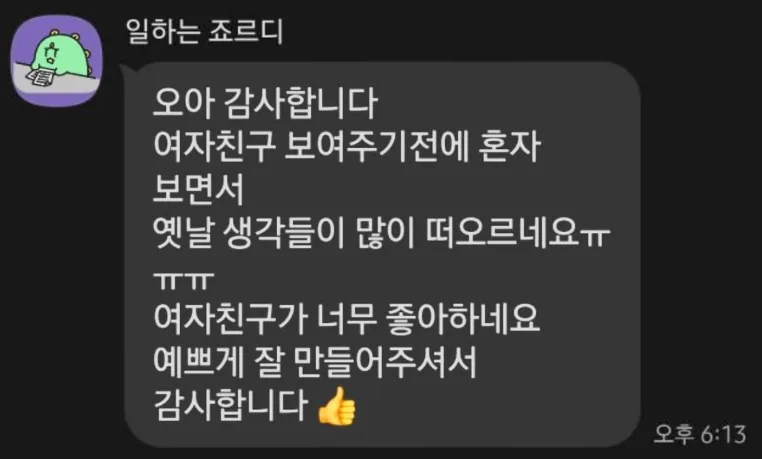
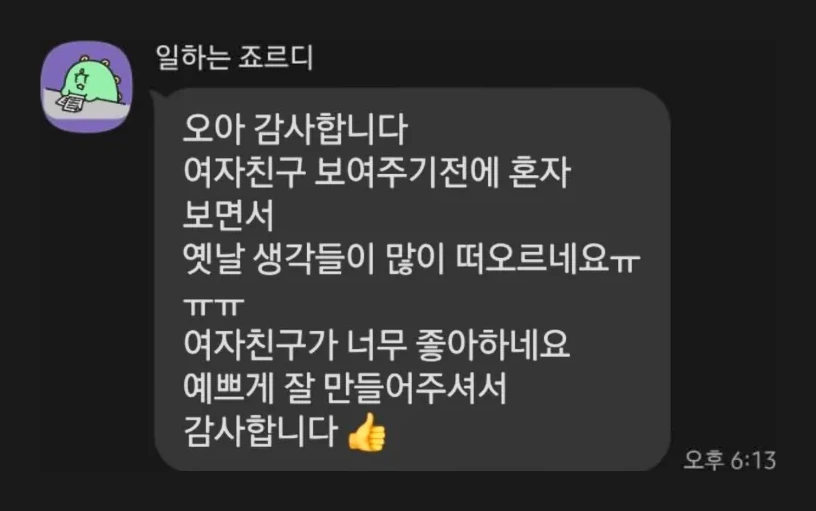
Round 26: review-17 original restored from 지훈's source, 4 reviews removed (10, 11, 15, 16), remaining 14 re-cropped uniformly, ?v=20261024-r26

Changed region(s): [[0.0, 0.0305, 0.9961, 0.976]]

diff --git a/js/review-sources.js b/js/review-sources.js
@@ -7,7 +7,7 @@
   const captures = [
     {
       id: 'review-17', title: '떨리는 느낌 사라져서 좋아요',
-      src: 'assets/img/reviews/review-17.webp?v=20261024-r24b',
+      src: 'assets/img/reviews/review-17.webp?v=20261024-r26',
       body: '앗 오늘 드디어 같이 들어봤습니다..!\n그 떨리는 느낌 사라져서 좋아요!!\n피드백 자세하게 드리지도 못했는데\n너무 찰떡같이 바꿔주셔서 감사합니다!\n진짜 마음에 들어요!!\n리허설날짜가 설레네요ㅎㅎㅎ\n진짜 가수를 만들어주셨네요\n제가 옆에서 들었던거랑^^..\nㅋㅋㅋㅋㅋㅋㅋ\n감사합니다!! 덕분에 안심하고 결혼할수있을거같습니다. 감사합니다!!! 🥹👍'
     },
     {
@@ -33,7 +33,7 @@
     {
       id: 'review-06', title: '처음부터 끝까지 잘 알려주셔서 편하게 할 수 있었습니다',
       body: '녹음을 처음 해봤는데 처음부터 끝까지 잘 알려주셔서 편하게 할 수 있었습니다\n시간도 여유 있게 진행해 주셔서 감사합니다',
-      src: 'assets/img/reviews/review-06-clean.webp'
+      src: 'assets/img/reviews/review-06-clean.webp?v=20261024-r26'
     },
     {
       id: 'review-07', title: '너무너무 즐거웠어요..🥹',
@@ -48,15 +48,6 @@
       body: '오늘 둘 다 녹음이 처음이라 긴장 많이 했는데 편하게 할 수 있도록 분위기도 잘 풀어주시고 덕분에 너무 즐겁게 녹음했어요! 😊\n\n예랑이도 끝나고 너무 재밌었다고 하더라구요!!\n오늘 너무 고생 많으셨어요 👍👍'
     },
     {
-      id: 'review-10', title: '편집을 너무 기깔나게 해주셔서 진짜 너무 예쁩니다.... 대박이에요',
-      body: '헉 이렇게 최종본으로 보니 눈물이 나기도 하고 오그라들기도 하네요 ㅋㅋㅋㅋ\n\n인터뷰 부분에서 말을 잘 못 했다고 생각했는데 ㅠㅠ\n편집을 너무 기깔나게 해주셔서 진짜 너무 예쁩니다.... 대박이에요 🫶\n\n결과물이 너무너무 맘에 들어서요\n별 건 아니지만 얼마전 복날이었는데 치킨이라도.. ❤\n채널에는 카카오톡 선물하기가 안되어서 따로 이미지로 보내드립니닷!\n정말정말 감사해요\n\n9월 6일 본식 마치면 본식 DVD 후기도 보내드리겠습니다 🫡',
-      transcriptionNote: 'The third customer bubble is partly covered by a studio caption and is omitted from this transcription; all other visible customer bubbles are included. Gift-card text and studio overlay are not customer reviews.'
-    },
-    {
-      id: 'review-11', title: '좋은 추억 만들어주셔서 너무 감사드리고',
-      body: '안녕하세요~~ 영상 잘 확인했습니다!! 저희 사진이랑 같이 나오니 진짜 뮤직비디오 찍은 것처럼 마음이 몽글해지네요ㅠㅠ 부족한 노래실력을 자연스럽게 커버해주셨네요 ㅎㅎㅎㅎ 인터뷰 부분 교차편집도 넘 맘에 들어요~~ 좋은 추억 만들어주셔서 너무 감사드리고 나레이션 녹음분도 잘 사용해서 결혼식날 영상 남겨서 꼭 전달드리겠습니다!!! 오랜시간 녹음과 촬영, 편집까지 너무 고생 많으셨습니다. 다시한번 진심을 담아 너무 감사드립니다~!!\n\n작지만 감사한 마음으로 보내드려요~ 정성 가득 영상 잘 만들어주신게 느껴져서 자꾸 보게되네요 ㅎㅎㅎ 연락 드리겠습니다!! 감사합니다~'
-    },
-    {
       id: 'review-12', name: '송○○', title: '너무 예쁜 영상 감사합니다!!',
       body: '안녕하세요!! 이제야 확인했습니다ㅎㅎ\n너무 예쁜 영상 감사합니다!! 😊 뭔가 사진이랑 같이 편집된거 보니 더 몽글몽글해지고 그러네요,,,ㅎㅎㅎ 고생 너무 많으셨구 행복한 하루 보내세요!!!'
     },
@@ -69,23 +60,15 @@
       body: '제가 본식 DVD 받으면 블로그로도 후기를 남기려고 했는데 나오는데 너무 오래걸려서 카톡으로 먼저 본식 후기를 전달드려요🫶\n\n본식 때 현장 반응이 정말 완전 최고였습니다!!!\n\n신부 입장을 노래 부르면서 들어가니까 다들 놀라서 감탄했고요\n\nAR 너무 잘 만들어주셔서 신부 입장할때 신부가 립싱크로 노래 부르는거 다들 모르더라구요ㅋㅋㅋ\n\n모두들 저보고 노래 왜이렇게 잘하냐고 칭찬 일색이었습니다!\n\n그리고 축가 영상도 단순히 축가만 부를때는 집중력이 떨어지는데 신랑신부가 마이크로 노래를 부르면서 뒤에 스크린에 영상이 나오니까 하객들이 엄청 집중 하시더라구요\n\n결혼식이 한편의 콘서트 같았다고, 기획을 너무너무 잘 했다고 엄청 칭찬 받았습니다 ㅎㅎㅎ\n\n덕분에 진짜 재밌고 특색있는 결혼식이 되었어요💗\n\n아무도 이런 결혼식은 본 적이 없다면서 하객들이 너무 재밌다고 자리 이탈 안하시고 끝까지 자리 지켜주셨어요 ㅋㅋㅋ\n\n그럴 일은 없겠지만, 제가 두 번 결혼해도 다시 위스티아 이용할 것 같아요!\n\n정말 최고의 찬사를 받은 결혼식이었습니다❤\n다시 한번 감사드립니다'
     },
     {
-      id: 'review-15', title: '녹음할때도 잘 이끌어주셔서 긴장감을 떨치고',
-      body: '잘 확인했습니다!!! 수정 사항 빠르게 반영해주셔서 감사합니다ㅎㅎ 넘 좋아요!!!!!\n본식까지 얼마 남지 않아서 걱정했었는데 녹음 파일부터 최종 영상까지 너무나 빠르게 완성해주셔서 감사드립니다🫶🏻\n녹음할때도 잘 이끌어주셔서 긴장감을 떨치고 편하게 진행했었는데 영상도 잘 완성되서 넘 좋습니당☺\n알려주신대로 당일에 잘 부를 수 있게 연습해보겠습니다!!'
-    },
-    {
-      id: 'review-16', title: '저희 노래 정말 잘하는것처럼 만들어주셨네요 !!!',
-      body: '안녕하세요 엔지니어님!\n저희 영상 보고 너무 감동했어요😭\n저희 노래 정말 잘하는것처럼 만들어주셨네요 !!!\n결혼식날 다들 정말 좋아하실 것 같아요 ㅠㅠㅠ\n예쁜 영상 만들어주셔서 감사합니다!!\n\n열심히 만들어주신 영상으로 결혼식 잘 하고 오겠습니다 ㅎㅎ\n결혼식 후기 꼭 가져올게요!!\n\n점심 맛있게 드세요 ~'
-    },
-    {
       id: 'review-n7', title: '축가 녹음 안했으면 큰일날뻔했어요!!!!',
       body: '안녕하세요!! 답이 넘 늦었네요ㅠㅠㅠ\n덕분에 축가 잘 진행했어요!!!!\n축가 녹음 안했으면 큰일날뻔했어요!!!!ㅋㅋㅋㅋ\n드레스도 쪼이고 떨리고 그러니까 목소리도 잘 안나오고ㅠㅠ ar덕분에 잘 진행했네요☺\n사람들이 영상을 봐주니까 다행히 저는 신랑 얼굴만 보면서 좀 덜 떨렸던거 같아요 ㅎㅎ 신랑도 제가 울까봐 눈물 꼭 참으면서 들었대요~ 친구들,친척분들도 다들 좋았다고 말씀 많이 주셨습니다!! 축가 녹음과 영상제작까지 한 덕분에 한층 더 색다르고 재밌게 진행할 수 있었습니다!! 💗',
-      src: 'assets/detail/review-n7.webp'
+      src: 'assets/detail/review-n7.webp?v=20261024-r26'
     }
   ]
   global.WistiaReviewSources = Object.freeze(captures.map(item => Object.freeze({
     ...item,
     name: item.name || '고객님',
     meta: '카카오톡 후기',
-    src: item.src || 'assets/img/reviews/' + item.id + '.webp'
+    src: item.src || 'assets/img/reviews/' + item.id + '.webp?v=20261024-r26'
   })))
 })(globalThis)

diff --git a/contact.html b/contact.html
@@ -182,7 +182,7 @@
   <link rel="preconnect" href="https://cdn.jsdelivr.net" crossorigin>
   <link rel="preload" as="style" crossorigin href="https://cdn.jsdelivr.net/gh/orioncactus/pretendard@v1.3.9/dist/web/variable/pretendardvariable-dynamic-subset.min.css" onload="this.onload=null;this.rel='stylesheet'"><noscript><link rel="stylesheet" crossorigin href="https://cdn.jsdelivr.net/gh/orioncactus/pretendard@v1.3.9/dist/web/variable/pretendardvariable-dynamic-subset.min.css"></noscript>
   <link rel="stylesheet" href="css/bundle-3472a5da.css?v=20261024-site-fixes-1">
-  <link rel="stylesheet" href="css/canvas-780.css?v=20261024-r25-1">
+  <link rel="stylesheet" href="css/canvas-780.css?v=20261024-r26-1">
   <script src="js/hero-editor.js?v=20261014-detail-polish-16j12" defer></script>
   <script src="js/process-editor.js?v=20261014-detail-polish-16j12" defer></script>
   <script src="js/ratio-model.js?v=20261014-detail-polish-16j12" defer></script>
@@ -193,18 +193,18 @@
   <script src="js/meta-pixel.js?v=20261017-funnel2" defer></script>
   <script src="js/analytics.js?v=20261017-funnel2" defer></script>
   <script src="js/seo-meta.js?v=20261024-r19-1" defer></script>
-  <script src="js/booking-availability.js?v=20261024-r25-1" defer></script>
+  <script src="js/booking-availability.js?v=20261024-r26-1" defer></script>
   <script src="js/contact-form.js?v=20261024-site-fixes-1" defer></script>
   <script src="js/site-motion.js?v=20261014-detail-polish-16j12" defer></script>
   <script src="js/svg-interface.js?v=20261014-detail-polish-16j12" defer></script>
   <script src="js/booking-draft.js?v=20261024-site-fixes-1" defer></script>
   <script src="js/inquiry-funnel.js?v=20261017-funnel2" defer></script>
-  <script src="js/package-pricing.js?v=20261024-r25-1" defer></script>
-  <script src="js/booking-wizard.js?v=20261024-r25-1" defer></script>
+  <script src="js/package-pricing.js?v=20261024-r26-1" defer></script>
+  <script src="js/booking-wizard.js?v=20261024-r26-1" defer></script>
   <script src="js/detail-pc-background.js?v=20261024-site-fixes-1" defer></script>
-  <script src="js/review-sources.js?v=20261024-r24b" defer></script>
-  <script src="js/detail-editorial.js?v=20261024-r25-1" defer></script>
-  <script src="js/app.js?v=20261024-r25-1" defer></script>
+  <script src="js/review-sources.js?v=20261024-r26" defer></script>
+  <script src="js/detail-editorial.js?v=20261024-r26-1" defer></script>
+  <script src="js/app.js?v=20261024-r26-1" defer></script>
   <meta property="og:image" content="https://wistiastudio.com/assets/img/og/wistia-og.png">
   <meta property="og:image:width" content="1200">
   <meta property="og:image:height" content="630">

diff --git a/detail/solo.html b/detail/solo.html
@@ -181,7 +181,7 @@
   <link rel="preconnect" href="https://cdn.jsdelivr.net" crossorigin>
   <link rel="preload" as="style" crossorigin href="https://cdn.jsdelivr.net/gh/orioncactus/pretendard@v1.3.9/dist/web/variable/pretendardvariable-dynamic-subset.min.css" onload="this.onload=null;this.rel='stylesheet'"><noscript><link rel="stylesheet" crossorigin href="https://cdn.jsdelivr.net/gh/orioncactus/pretendard@v1.3.9/dist/web/variable/pretendardvariable-dynamic-subset.min.css"></noscript>
   <link rel="stylesheet" href="css/bundle-3472a5da.css?v=20261024-site-fixes-1">
-  <link rel="stylesheet" href="css/canvas-780.css?v=20261024-r25-1">
+  <link rel="stylesheet" href="css/canvas-780.css?v=20261024-r26-1">
   <script src="js/hero-editor.js?v=20261014-detail-polish-16j12" defer></script>
   <script src="js/process-editor.js?v=20261014-detail-polish-16j12" defer></script>
   <script src="js/ratio-model.js?v=20261014-detail-polish-16j12" defer></script>
@@ -192,18 +192,18 @@
   <script src="js/meta-pixel.js?v=20261017-funnel2" defer></script>
   <script src="js/analytics.js?v=20261017-funnel2" defer></script>
   <script src="js/seo-meta.js?v=20261024-r19-1" defer></script>
-  <script src="js/booking-availability.js?v=20261024-r25-1" defer></script>
+  <script src="js/booking-availability.js?v=20261024-r26-1" defer></script>
   <script src="js/contact-form.js?v=20261024-site-fixes-1" defer></script>
   <script src="js/site-motion.js?v=20261014-detail-polish-16j12" defer></script>
   <script src="js/svg-interface.js?v=20261014-detail-polish-16j12" defer></script>
   <script src="js/booking-draft.js?v=20261024-site-fixes-1" defer></script>
   <script src="js/inquiry-funnel.js?v=20261017-funnel2" defer></script>
-  <script src="js/package-pricing.js?v=20261024-r25-1" defer></script>
-  <script src="js/booking-wizard.js?v=20261024-r25-1" defer></script>
+  <script src="js/package-pricing.js?v=20261024-r26-1" defer></script>
+  <script src="js/booking-wizard.js?v=20261024-r26-1" defer></script>
   <script src="js/detail-pc-background.js?v=20261024-site-fixes-1" defer></script>
-  <script src="js/review-sources.js?v=20261024-r24b" defer></script>
-  <script src="js/detail-editorial.js?v=20261024-r25-1" defer></script>
-  <script src="js/app.js?v=20261024-r25-1" defer></script>
+  <script src="js/review-sources.js?v=20261024-r26" defer></script>
+  <script src="js/detail-editorial.js?v=20261024-r26-1" defer></script>
+  <script src="js/app.js?v=20261024-r26-1" defer></script>
   <meta property="og:image" content="https://wistiastudio.com/assets/img/og/wistia-og.png">
   <meta property="og:image:width" content="1200">
   <meta property="og:image:height" content="630">

diff --git a/event/duo.html b/event/duo.html
@@ -181,7 +181,7 @@
   <link rel="preconnect" href="https://cdn.jsdelivr.net" crossorigin>
   <link rel="preload" as="style" crossorigin href="https://cdn.jsdelivr.net/gh/orioncactus/pretendard@v1.3.9/dist/web/variable/pretendardvariable-dynamic-subset.min.css" onload="this.onload=null;this.rel='stylesheet'"><noscript><link rel="stylesheet" crossorigin href="https://cdn.jsdelivr.net/gh/orioncactus/pretendard@v1.3.9/dist/web/variable/pretendardvariable-dynamic-subset.min.css"></noscript>
   <link rel="stylesheet" href="css/bundle-3472a5da.css?v=20261024-site-fixes-1">
-  <link rel="stylesheet" href="css/canvas-780.css?v=20261024-r25-1">
+  <link rel="stylesheet" href="css/canvas-780.css?v=20261024-r26-1">
   <script src="js/hero-editor.js?v=20261014-detail-polish-16j12" defer></script>
   <script src="js/process-editor.js?v=20261014-detail-polish-16j12" defer></script>
   <script src="js/ratio-model.js?v=20261014-detail-polish-16j12" defer></script>
@@ -192,18 +192,18 @@
   <script src="js/meta-pixel.js?v=20261017-funnel2" defer></script>
   <script src="js/analytics.js?v=20261017-funnel2" defer></script>
   <script src="js/seo-meta.js?v=20261024-r19-1" defer></script>
-  <script src="js/booking-availability.js?v=20261024-r25-1" defer></script>
+  <script src="js/booking-availability.js?v=20261024-r26-1" defer></script>
   <script src="js/contact-form.js?v=20261024-site-fixes-1" defer></script>
   <script src="js/site-motion.js?v=20261014-detail-polish-16j12" defer></script>
   <script src="js/svg-interface.js?v=20261014-detail-polish-16j12" defer></script>
   <script src="js/booking-draft.js?v=20261024-site-fixes-1" defer></script>
   <script src="js/inquiry-funnel.js?v=20261017-funnel2" defer></script>
-  <script src="js/package-pricing.js?v=20261024-r25-1" defer></script>
-  <script src="js/booking-wizard.js?v=20261024-r25-1" defer></script>
+  <script src="js/package-pricing.js?v=20261024-r26-1" defer></script>
+  <script src="js/booking-wizard.js?v=20261024-r26-1" defer></script>
   <script src="js/detail-pc-background.js?v=20261024-site-fixes-1" defer></script>
-  <script src="js/review-sources.js?v=20261024-r24b" defer></script>
-  <script src="js/detail-editorial.js?v=20261024-r25-1" defer></script>
-  <script src="js/app.js?v=20261024-r25-1" defer></script>
+  <script src="js/review-sources.js?v=20261024-r26" defer></script>
+  <script src="js/detail-editorial.js?v=20261024-r26-1" defer></script>
+  <script src="js/app.js?v=20261024-r26-1" defer></script>
   <meta property="og:image" content="https://wistiastudio.com/assets/img/og/wistia-og.png">
   <meta property="og:image:width" content="1200">
   <meta property="og:image:height" content="630">

diff --git a/event/solo.html b/event/solo.html
@@ -181,7 +181,7 @@
   <link rel="preconnect" href="https://cdn.jsdelivr.net" crossorigin>
   <link rel="preload" as="style" crossorigin href="https://cdn.jsdelivr.net/gh/orioncactus/pretendard@v1.3.9/dist/web/variable/pretendardvariable-dynamic-subset.min.css" onload="this.onload=null;this.rel='stylesheet'"><noscript><link rel="stylesheet" crossorigin href="https://cdn.jsdelivr.net/gh/orioncactus/pretendard@v1.3.9/dist/web/variable/pretendardvariable-dynamic-subset.min.css"></noscript>
   <link rel="stylesheet" href="css/bundle-3472a5da.css?v=20261024-site-fixes-1">
-  <link rel="stylesheet" href="css/canvas-780.css?v=20261024-r25-1">
+  <link rel="stylesheet" href="css/canvas-780.css?v=20261024-r26-1">
   <script src="js/hero-editor.js?v=20261014-detail-polish-16j12" defer></script>
   <script src="js/process-editor.js?v=20261014-detail-polish-16j12" defer></script>
   <script src="js/ratio-model.js?v=20261014-detail-polish-16j12" defer></script>
@@ -192,18 +192,18 @@
   <script src="js/meta-pixel.js?v=20261017-funnel2" defer></script>
   <script src="js/analytics.js?v=20261017-funnel2" defer></script>
   <script src="js/seo-meta.js?v=20261024-r19-1" defer></script>
-  <script src="js/booking-availability.js?v=20261024-r25-1" defer></script>
+  <script src="js/booking-availability.js?v=20261024-r26-1" defer></script>
   <script src="js/contact-form.js?v=20261024-site-fixes-1" defer></script>
   <script src="js/site-motion.js?v=20261014-detail-polish-16j12" defer></script>
   <script src="js/svg-interface.js?v=20261014-detail-polish-16j12" defer></script>
   <script src="js/booking-draft.js?v=20261024-site-fixes-1" defer></script>
   <script src="js/inquiry-funnel.js?v=20261017-funnel2" defer></script>
-  <script src="js/package-pricing.js?v=20261024-r25-1" defer></script>
-  <script src="js/booking-wizard.js?v=20261024-r25-1" defer></script>
+  <script src="js/package-pricing.js?v=20261024-r26-1" defer></script>
+  <script src="js/booking-wizard.js?v=20261024-r26-1" defer></script>
   <script src="js/detail-pc-background.js?v=20261024-site-fixes-1" defer></script>
-  <script src="js/review-sources.js?v=20261024-r24b" defer></script>
-  <script src="js/detail-editorial.js?v=20261024-r25-1" defer></script>
-  <script src="js/app.js?v=20261024-r25-1" defer></script>
+  <script src="js/review-sources.js?v=20261024-r26" defer></script>
+  <script src="js/detail-editorial.js?v=20261024-r26-1" defer></script>
+  <script src="js/app.js?v=20261024-r26-1" defer></script>
   <meta property="og:image" content="https://wistiastudio.com/assets/img/og/wistia-og.png">
   <meta property="og:image:width" content="1200">
   <meta property="og:image:height" content="630">

diff --git a/events.html b/events.html
@@ -181,7 +181,7 @@
   <link rel="preconnect" href="https://cdn.jsdelivr.net" crossorigin>
   <link rel="preload" as="style" crossorigin href="https://cdn.jsdelivr.net/gh/orioncactus/pretendard@v1.3.9/dist/web/variable/pretendardvariable-dynamic-subset.min.css" onload="this.onload=null;this.rel='stylesheet'"><noscript><link rel="stylesheet" crossorigin href="https://cdn.jsdelivr.net/gh/orioncactus/pretendard@v1.3.9/dist/web/variable/pretendardvariable-dynamic-subset.min.css"></noscript>
   <link rel="stylesheet" href="css/bundle-3472a5da.css?v=20261024-site-fixes-1">
-  <link rel="stylesheet" href="css/canvas-780.css?v=20261024-r25-1">
+  <link rel="stylesheet" href="css/canvas-780.css?v=20261024-r26-1">
   <script src="js/hero-editor.js?v=20261014-detail-polish-16j12" defer></script>
   <script src="js/process-editor.js?v=20261014-detail-polish-16j12" defer></script>
   <script src="js/ratio-model.js?v=20261014-detail-polish-16j12" defer></script>
@@ -192,18 +192,18 @@
   <script src="js/meta-pixel.js?v=20261017-funnel2" defer></script>
   <script src="js/analytics.js?v=20261017-funnel2" defer></script>
   <script src="js/seo-meta.js?v=20261024-r19-1" defer></script>
-  <script src="js/booking-availability.js?v=20261024-r25-1" defer></script>
+  <script src="js/booking-availability.js?v=20261024-r26-1" defer></script>
   <script src="js/contact-form.js?v=20261024-site-fixes-1" defer></script>
   <script src="js/site-motion.js?v=20261014-detail-polish-16j12" defer></script>
   <script src="js/svg-interface.js?v=20261014-detail-polish-16j12" defer></script>
   <script src="js/booking-draft.js?v=20261024-site-fixes-1" defer></script>
   <script src="js/inquiry-funnel.js?v=20261017-funnel2" defer></script>
-  <script src="js/package-pricing.js?v=20261024-r25-1" defer></script>
-  <script src="js/booking-wizard.js?v=20261024-r25-1" defer></script>
+  <script src="js/package-pricing.js?v=20261024-r26-1" defer></script>
+  <script src="js/booking-wizard.js?v=20261024-r26-1" defer></script>
   <script src="js/detail-pc-background.js?v=20261024-site-fixes-1" defer></script>
-  <script src="js/review-sources.js?v=20261024-r24b" defer></script>
-  <script src="js/detail-editorial.js?v=20261024-r25-1" defer></script>
-  <script src="js/app.js?v=20261024-r25-1" defer></script>
+  <script src="js/review-sources.js?v=20261024-r26" defer></script>
+  <script src="js/detail-editorial.js?v=20261024-r26-1" defer></script>
+  <script src="js/app.js?v=20261024-r26-1" defer></script>
   <meta property="og:image" content="https://wistiastudio.com/assets/img/og/wistia-og.png">
   <meta property="og:image:width" content="1200">
   <meta property="og:image:height" content="630">

diff --git a/index.html b/index.html
@@ -181,7 +181,7 @@
   <link rel="preconnect" href="https://cdn.jsdelivr.net" crossorigin>
   <link rel="preload" as="style" crossorigin href="https://cdn.jsdelivr.net/gh/orioncactus/pretendard@v1.3.9/dist/web/variable/pretendardvariable-dynamic-subset.min.css" onload="this.onload=null;this.rel='stylesheet'"><noscript><link rel="stylesheet" crossorigin href="https://cdn.jsdelivr.net/gh/orioncactus/pretendard@v1.3.9/dist/web/variable/pretendardvariable-dynamic-subset.min.css"></noscript>
   <link rel="stylesheet" href="css/bundle-3472a5da.css?v=20261024-site-fixes-1">
-  <link rel="stylesheet" href="css/canvas-780.css?v=20261024-r25-1">
+  <link rel="stylesheet" href="css/canvas-780.css?v=20261024-r26-1">
   <script src="js/hero-editor.js?v=20261014-detail-polish-16j12" defer></script>
   <script src="js/process-editor.js?v=20261014-detail-polish-16j12" defer></script>
   <script src="js/ratio-model.js?v=20261014-detail-polish-16j12" defer></script>
@@ -192,18 +192,18 @@
   <script src="js/meta-pixel.js?v=20261017-funnel2" defer></script>
   <script src="js/analytics.js?v=20261017-funnel2" defer></script>
   <script src="js/seo-meta.js?v=20261024-r19-1" defer></script>
-  <script src="js/booking-availability.js?v=20261024-r25-1" defer></script>
+  <script src="js/booking-availability.js?v=20261024-r26-1" defer></script>
   <script src="js/contact-form.js?v=20261024-site-fixes-1" defer></script>
   <script src="js/site-motion.js?v=20261014-detail-polish-16j12" defer></script>
   <script src="js/svg-interface.js?v=20261014-detail-polish-16j12" defer></script>
   <script src="js/booking-draft.js?v=20261024-site-fixes-1" defer></script>
   <script src="js/inquiry-funnel.js?v=20261017-funnel2" defer></script>
-  <script src="js/package-pricing.js?v=20261024-r25-1" defer></script>
-  <script src="js/booking-wizard.js?v=20261024-r25-1" defer></script>
+  <script src="js/package-pricing.js?v=20261024-r26-1" defer></script>
+  <script src="js/booking-wizard.js?v=20261024-r26-1" defer></script>
   <script src="js/detail-pc-background.js?v=20261024-site-fixes-1" defer></script>
-  <script src="js/review-sources.js?v=20261024-r24b" defer></script>
-  <script src="js/detail-editorial.js?v=20261024-r25-1" defer></script>
-  <script src="js/app.js?v=20261024-r25-1" defer></script>
+  <script src="js/review-sources.js?v=20261024-r26" defer></script>
+  <script src="js/detail-editorial.js?v=20261024-r26-1" defer></script>
+  <script src="js/app.js?v=20261024-r26-1" defer></script>
   <meta property="og:image" content="https://wistiastudio.com/assets/img/og/wistia-og.png">
   <meta property="og:image:width" content="1200">
   <meta property="og:image:height" content="630">

diff --git a/info/faq.html b/info/faq.html
@@ -181,7 +181,7 @@
   <link rel="preconnect" href="https://cdn.jsdelivr.net" crossorigin>
   <link rel="preload" as="style" crossorigin href="https://cdn.jsdelivr.net/gh/orioncactus/pretendard@v1.3.9/dist/web/variable/pretendardvariable-dynamic-subset.min.css" onload="this.onload=null;this.rel='stylesheet'"><noscript><link rel="stylesheet" crossorigin href="https://cdn.jsdelivr.net/gh/orioncactus/pretendard@v1.3.9/dist/web/variable/pretendardvariable-dynamic-subset.min.css"></noscript>
   <link rel="stylesheet" href="css/bundle-3472a5da.css?v=20261024-site-fixes-1">
-  <link rel="stylesheet" href="css/canvas-780.css?v=20261024-r25-1">
+  <link rel="stylesheet" href="css/canvas-780.css?v=20261024-r26-1">
   <script src="js/hero-editor.js?v=20261014-detail-polish-16j12" defer></script>
   <script src="js/process-editor.js?v=20261014-detail-polish-16j12" defer></script>
   <script src="js/ratio-model.js?v=20261014-detail-polish-16j12" defer></script>
@@ -192,18 +192,18 @@
   <script src="js/meta-pixel.js?v=20261017-funnel2" defer></script>
   <script src="js/analytics.js?v=20261017-funnel2" defer></script>
   <script src="js/seo-meta.js?v=20261024-r19-1" defer></script>
-  <script src="js/booking-availability.js?v=20261024-r25-1" defer></script>
+  <script src="js/booking-availability.js?v=20261024-r26-1" defer></script>
   <script src="js/contact-form.js?v=20261024-site-fixes-1" defer></script>
   <script src="js/site-motion.js?v=20261014-detail-polish-16j12" defer></script>
   <script src="js/svg-interface.js?v=20261014-detail-polish-16j12" defer></script>
   <script src="js/booking-draft.js?v=20261024-site-fixes-1" defer></script>
   <script src="js/inquiry-funnel.js?v=20261017-funnel2" defer></script>
-  <script src="js/package-pricing.js?v=20261024-r25-1" defer></script>
-  <script src="js/booking-wizard.js?v=20261024-r25-1" defer></script>
+  <script src="js/package-pricing.js?v=20261024-r26-1" defer></script>
+  <script src="js/booking-wizard.js?v=20261024-r26-1" defer></script>
   <script src="js/detail-pc-background.js?v=20261024-site-fixes-1" defer></script>
-  <script src="js/review-sources.js?v=20261024-r24b" defer></script>
-  <script src="js/detail-editorial.js?v=20261024-r25-1" defer></script>
-  <script src="js/app.js?v=20261024-r25-1" defer></script>
+  <script src="js/review-sources.js?v=20261024-r26" defer></script>
+  <script src="js/detail-editorial.js?v=20261024-r26-1" defer></script>
+  <script src="js/app.js?v=20261024-r26-1" defer></script>
   <meta property="og:image" content="https://wistiastudio.com/assets/img/og/wistia-og.png">
   <meta property="og:image:width" content="1200">
   <meta property="og:image:height" content="630">

diff --git a/info/location.html b/info/location.html
@@ -181,7 +181,7 @@
   <link rel="preconnect" href="https://cdn.jsdelivr.net" crossorigin>
   <link rel="preload" as="style" crossorigin href="https://cdn.jsdelivr.net/gh/orioncactus/pretendard@v1.3.9/dist/web/variable/pretendardvariable-dynamic-subset.min.css" onload="this.onload=null;this.rel='stylesheet'"><noscript><link rel="stylesheet" crossorigin href="https://cdn.jsdelivr.net/gh/orioncactus/pretendard@v1.3.9/dist/web/variable/pretendardvariable-dynamic-subset.min.css"></noscript>
   <link rel="stylesheet" href="css/bundle-3472a5da.css?v=20261024-site-fixes-1">
-  <link rel="stylesheet" href="css/canvas-780.css?v=20261024-r25-1">
+  <link rel="stylesheet" href="css/canvas-780.css?v=20261024-r26-1">
   <script src="js/hero-editor.js?v=20261014-detail-polish-16j12" defer></script>
   <script src="js/process-editor.js?v=20261014-detail-polish-16j12" defer></script>
   <script src="js/ratio-model.js?v=20261014-detail-polish-16j12" defer></script>
@@ -192,18 +192,18 @@
   <script src="js/meta-pixel.js?v=20261017-funnel2" defer></script>
   <script src="js/analytics.js?v=20261017-funnel2" defer></script>
   <script src="js/seo-meta.js?v=20261024-r19-1" defer></script>
-  <script src="js/booking-availability.js?v=20261024-r25-1" defer></script>
+  <script src="js/booking-availability.js?v=20261024-r26-1" defer></script>
   <script src="js/contact-form.js?v=20261024-site-fixes-1" defer></script>
   <script src="js/site-motion.js?v=20261014-detail-polish-16j12" defer></script>
   <script src="js/svg-interface.js?v=20261014-detail-polish-16j12" defer></script>
   <script src="js/booking-draft.js?v=20261024-site-fixes-1" defer></script>
   <script src="js/inquiry-funnel.js?v=20261017-funnel2" defer></script>
-  <script src="js/package-pricing.js?v=20261024-r25-1" defer></script>
-  <script src="js/booking-wizard.js?v=20261024-r25-1" defer></script>
+  <script src="js/package-pricing.js?v=20261024-r26-1" defer></script>
+  <script src="js/booking-wizard.js?v=20261024-r26-1" defer></script>
   <script src="js/detail-pc-background.js?v=20261024-site-fixes-1" defer></script>
-  <script src="js/review-sources.js?v=20261024-r24b" defer></script>
-  <script src="js/detail-editorial.js?v=20261024-r25-1" defer></script>
-  <script src="js/app.js?v=20261024-r25-1" defer></script>
+  <script src="js/review-sources.js?v=20261024-r26" defer></script>
+  <script src="js/detail-editorial.js?v=20261024-r26-1" defer></script>
+  <script src="js/app.js?v=20261024-r26-1" defer></script>
   <meta property="og:image" content="https://wistiastudio.com/assets/img/og/wistia-og.png">
   <meta property="og:image:width" content="1200">
   <meta property="og:image:height" content="630">

diff --git a/js/app.js b/js/app.js
@@ -277,7 +277,7 @@ const PAYBACK_EVENT_GUIDE = {
  notes: ['두 가지 이벤트는 각각 참여하셔도 괜찮습니다, 편하신 방법으로 함께해 주세요!', '두 가지 모두 참여 시 총 60,000원 페이백!', '고객님께서 나눠주시는 소중한 경험 하나하나가 위스티아를 알리는 데 정말 큰 도움이 됩니다', '함께해 주시는 모든 분께 진심으로 감사드립니다', '페이백은 결제 금액에서 미리 차감하지 않으며, 참여 자료와 조건 확인 후 카카오톡으로 환급 절차를 안내해 드립니다']
 }
 
-const ACTUAL_REVIEW_IMAGES = Array.from({ length: 16 }, (_, index) => index===5?"assets/img/reviews/review-06-clean.webp":`assets/img/reviews/review-${String(index + 1).padStart(2, "0")}.webp`)
+const ACTUAL_REVIEW_IMAGES = [1,2,3,4,5,6,7,8,9,12,13,14].map(n => n===6?"assets/img/reviews/review-06-clean.webp?v=20261024-r26":`assets/img/reviews/review-${String(n).padStart(2, "0")}.webp?v=20261024-r26`)
 const SOLO_REVIEW_IMAGES=[...Array.from({length:8},(_,index)=>`assets/img/reviews/showcase/review-${String(index+1).padStart(2,"0")}-black.webp`),...Array.from({length:3},(_,index)=>`assets/img/reviews/showcase/review-${String(index+9).padStart(2,"0")}-light.webp`)]
 
 const DETAIL_STORIES = {
